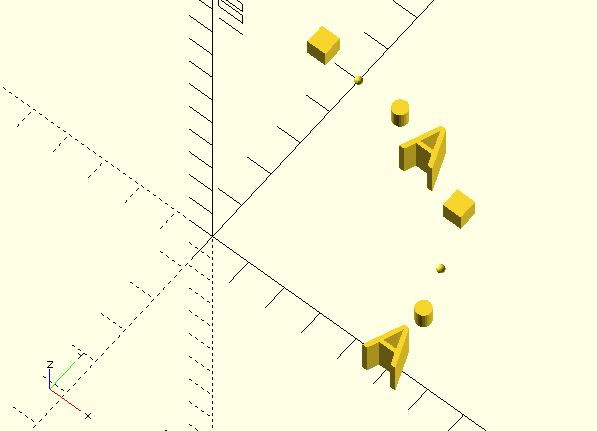
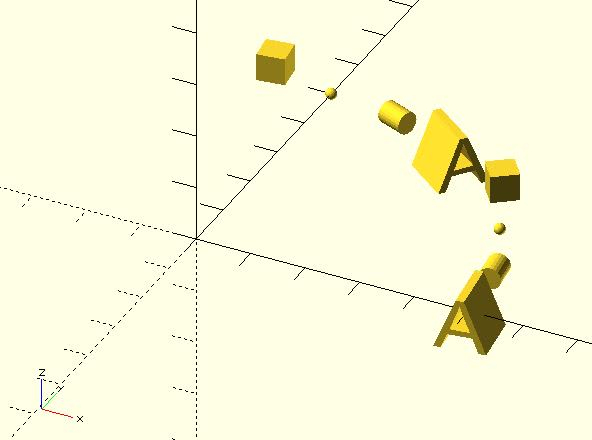
updated doc

diff --git a/docs/lib-along_with.md b/docs/lib-along_with.md
@@ -23,20 +23,20 @@ Puts children along the given path. If there's only one child, it will put the c
 
 	include <along_with.scad>;
 	include <circle_path.scad>;
-	
+
 	$fn = 24;
-	
+
 	points = circle_path(radius = 50);
-	
+
 	along_with(points) {
-	    linear_extrude(10) text("A", valign = "center", halign = "center");
-	    linear_extrude(5) circle(2);
-	    sphere(1);
-	    cube(5);
-	    linear_extrude(10) text("A", valign = "center", halign = "center");
-	    linear_extrude(5) circle(2);
-	    sphere(1);
-	    cube(5);        
+		linear_extrude(10, center = true) text("A", valign = "center", halign = "center");
+		linear_extrude(5, center = true) circle(2);
+		sphere(1);
+		cube(5);
+		linear_extrude(10, center = true) text("A", valign = "center", halign = "center");
+		linear_extrude(5, center = true) circle(2);
+		sphere(1);
+		cube(5);        
 	}
 
 ![along_with](images/lib-along_with-2.JPG)
